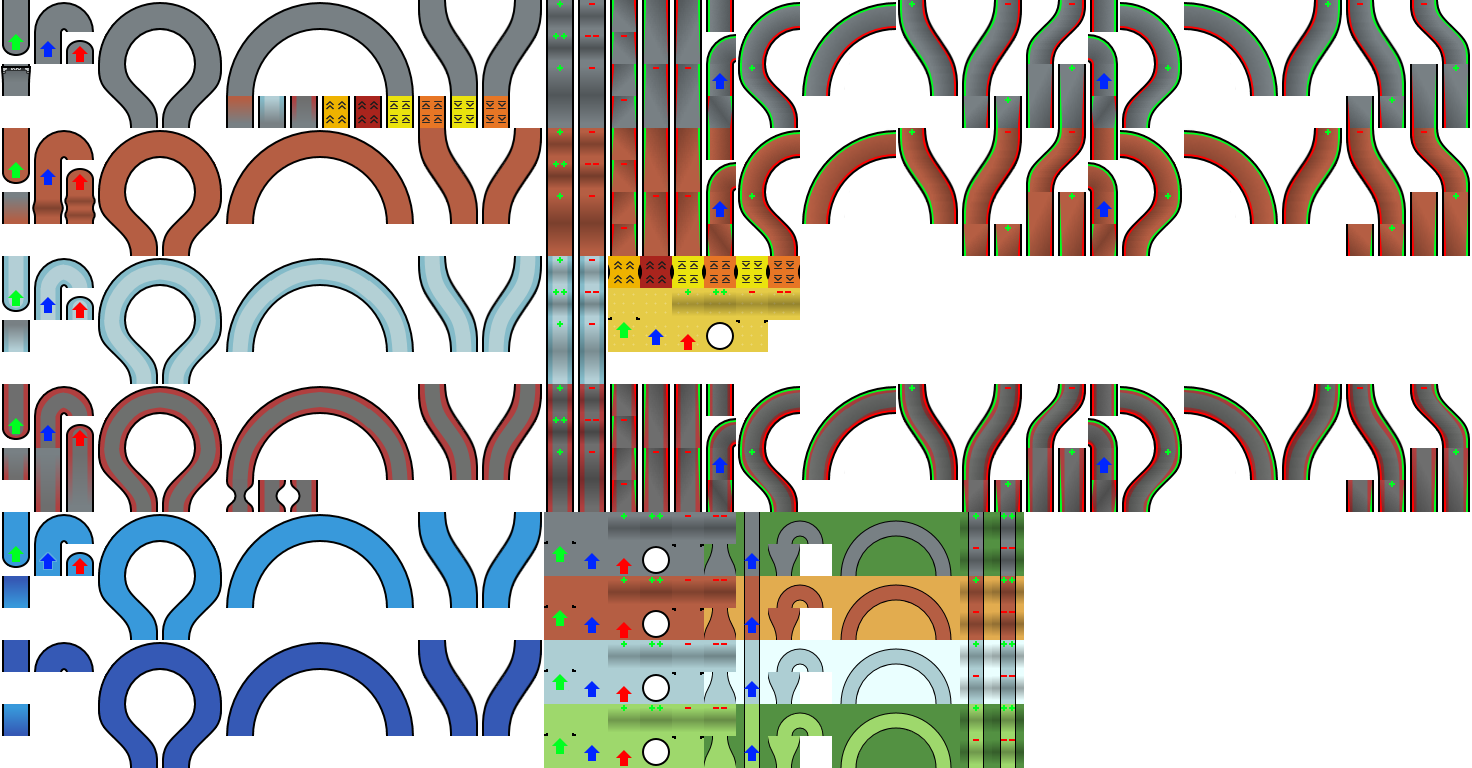
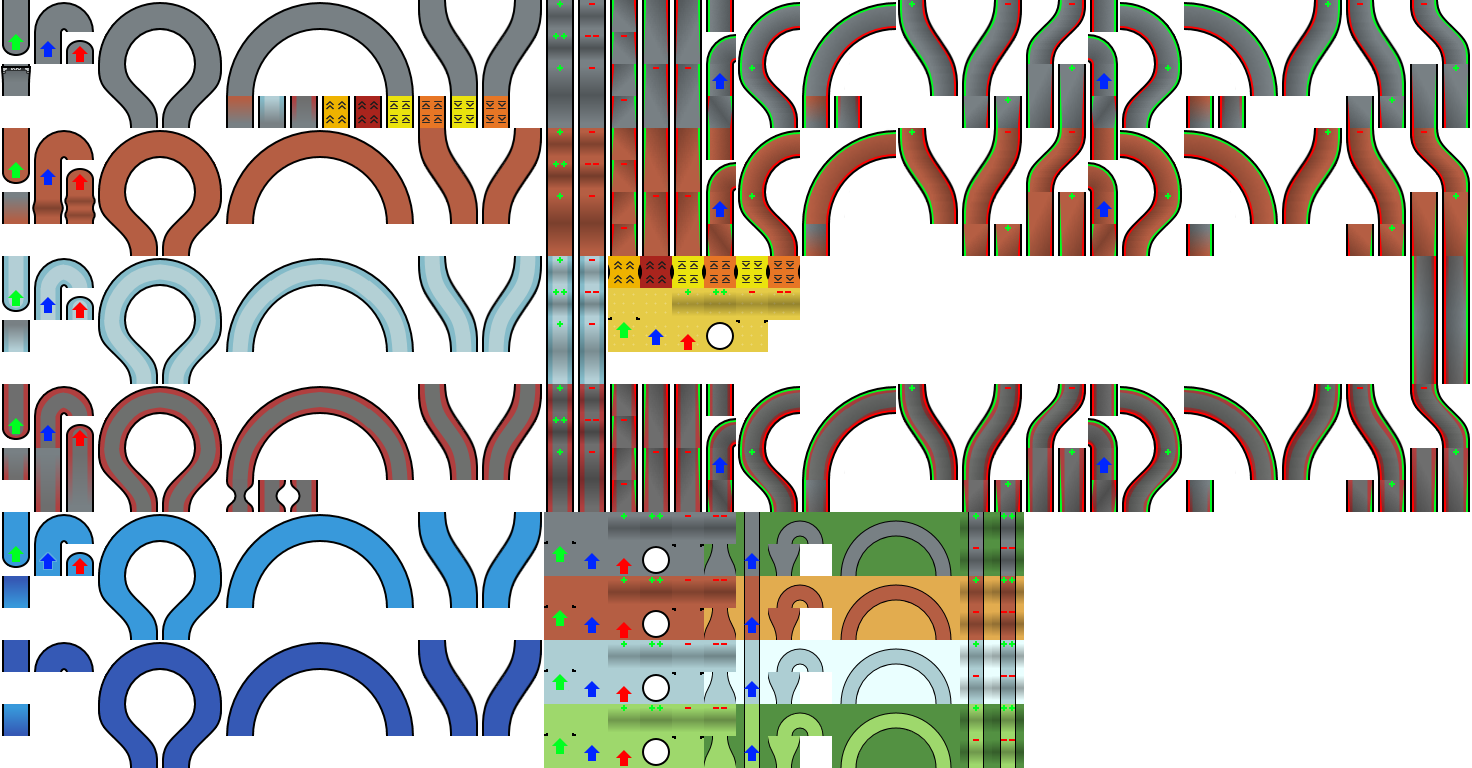
Added banked transitions for other materials

diff --git a/piecetypes.js b/piecetypes.js
@@ -1081,6 +1081,39 @@ let gPieceTypes =
 			collisionExtents: new Vector3D(0.5, 0.5, 1),
 			transitionTo: { material: "roadBankLeft" },
 		},
+		toDirtBankRight:
+		{
+			tags: [ "straight", "transition" ],
+			imageOffset: new Vector2D(800, 96),
+			imageDimensions: new Vector2D(32, 32),
+			exitOffset: new Vector3D(0, -1, 0),
+			exitAngle: 0,
+			collisionOffset: new Vector3D(0, 0, 1),
+			collisionExtents: new Vector3D(0.5, 0.5, 1),
+			transitionTo: { material: "dirtBankRight" },
+		},
+		toSausageBankRight:
+		{
+			tags: [ "straight", "transition" ],
+			imageOffset: new Vector2D(832, 96),
+			imageDimensions: new Vector2D(32, 32),
+			exitOffset: new Vector3D(0, -1, 0),
+			exitAngle: 0,
+			collisionOffset: new Vector3D(0, 0, 1),
+			collisionExtents: new Vector3D(0.5, 0.5, 1),
+			transitionTo: { material: "sausageBankRight" },
+		},
+		toSausageBankRightLong:
+		{
+			tags: [ "straight", "transition" ],
+			imageOffset: new Vector2D(1408, 256),
+			imageDimensions: new Vector2D(32, 64),
+			exitOffset: new Vector3D(0, -2, 0),
+			exitAngle: 0,
+			collisionOffset: new Vector3D(0, -0.5, 1),
+			collisionExtents: new Vector3D(0.5, 1, 1),
+			transitionTo: { material: "sausageBankRight" },
+		},
 	},
 	roadBankLeft:
 	{
@@ -1093,6 +1126,161 @@ let gPieceTypes =
 			exitAngle: 0,
 			collisionOffset: new Vector3D(0, 0, 1),
 			collisionExtents: new Vector3D(0.5, 0.5, 1),
+			transitionTo: { material: "roadBankRight" },
+		},
+		toDirtBankLeft:
+		{
+			tags: [ "straight", "transition" ],
+			imageOffset: new Vector2D(1184, 96),
+			imageDimensions: new Vector2D(32, 32),
+			exitOffset: new Vector3D(0, -1, 0),
+			exitAngle: 0,
+			collisionOffset: new Vector3D(0, 0, 1),
+			collisionExtents: new Vector3D(0.5, 0.5, 1),
+			transitionTo: { material: "dirtBankLeft" },
+		},
+		toSausageBankLeft:
+		{
+			tags: [ "straight", "transition" ],
+			imageOffset: new Vector2D(1216, 96),
+			imageDimensions: new Vector2D(32, 32),
+			exitOffset: new Vector3D(0, -1, 0),
+			exitAngle: 0,
+			collisionOffset: new Vector3D(0, 0, 1),
+			collisionExtents: new Vector3D(0.5, 0.5, 1),
+			transitionTo: { material: "sausageBankLeft" },
+		},
+		toSausageBankLeftLong:
+		{
+			tags: [ "straight", "transition" ],
+			imageOffset: new Vector2D(1440, 256),
+			imageDimensions: new Vector2D(32, 64),
+			exitOffset: new Vector3D(0, -2, 0),
+			exitAngle: 0,
+			collisionOffset: new Vector3D(0, -0.5, 1),
+			collisionExtents: new Vector3D(0.5, 1, 1),
+			transitionTo: { material: "sausageBankLeft" },
+		},
+	},
+	dirtBankRight:
+	{
+		toBankLeft:
+		{
+			tags: [ "straight", "transition" ],
+			imageOffset: new Vector2D(704, 224),
+			imageDimensions: new Vector2D(32, 32),
+			exitOffset: new Vector3D(0, -1, 0),
+			exitAngle: 0,
+			collisionOffset: new Vector3D(0, 0, 1),
+			collisionExtents: new Vector3D(0.5, 0.5, 1),
+			transitionTo: { material: "dirtBankLeft" },
+		},
+		toRoadBankRight:
+		{
+			tags: [ "straight", "transition" ],
+			imageOffset: new Vector2D(800, 224),
+			imageDimensions: new Vector2D(32, 32),
+			exitOffset: new Vector3D(0, -1, 0),
+			exitAngle: 0,
+			collisionOffset: new Vector3D(0, 0, 1),
+			collisionExtents: new Vector3D(0.5, 0.5, 1),
+			transitionTo: { material: "roadBankRight" },
+		},
+	},
+	dirtBankLeft:
+	{
+		toBankRight:
+		{
+			tags: [ "straight", "transition" ],
+			imageOffset: new Vector2D(1088, 224),
+			imageDimensions: new Vector2D(32, 32),
+			exitOffset: new Vector3D(0, -1, 0),
+			exitAngle: 0,
+			collisionOffset: new Vector3D(0, 0, 1),
+			collisionExtents: new Vector3D(0.5, 0.5, 1),
+			transitionTo: { material: "dirtBankRight" },
+		},
+		toRoadBankLeft:
+		{
+			tags: [ "straight", "transition" ],
+			imageOffset: new Vector2D(1184, 224),
+			imageDimensions: new Vector2D(32, 32),
+			exitOffset: new Vector3D(0, -1, 0),
+			exitAngle: 0,
+			collisionOffset: new Vector3D(0, 0, 1),
+			collisionExtents: new Vector3D(0.5, 0.5, 1),
+			transitionTo: { material: "roadBankLeft" },
+		},
+	},
+	sausageBankRight:
+	{
+		toBankLeft:
+		{
+			tags: [ "straight", "transition" ],
+			imageOffset: new Vector2D(704, 480),
+			imageDimensions: new Vector2D(32, 32),
+			exitOffset: new Vector3D(0, -1, 0),
+			exitAngle: 0,
+			collisionOffset: new Vector3D(0, 0, 1),
+			collisionExtents: new Vector3D(0.5, 0.5, 1),
+			transitionTo: { material: "sausageBankLeft" },
+		},
+		toRoadBankRight:
+		{
+			tags: [ "straight", "transition" ],
+			imageOffset: new Vector2D(800, 480),
+			imageDimensions: new Vector2D(32, 32),
+			exitOffset: new Vector3D(0, -1, 0),
+			exitAngle: 0,
+			collisionOffset: new Vector3D(0, 0, 1),
+			collisionExtents: new Vector3D(0.5, 0.5, 1),
+			transitionTo: { material: "roadBankRight" },
+		},
+		toRoadBankRightLong:
+		{
+			tags: [ "straight", "transition" ],
+			imageOffset: new Vector2D(1408, 320),
+			imageDimensions: new Vector2D(32, 64),
+			exitOffset: new Vector3D(0, -2, 0),
+			exitAngle: 0,
+			collisionOffset: new Vector3D(0, -0.5, 1),
+			collisionExtents: new Vector3D(0.5, 1, 1),
+			transitionTo: { material: "roadBankRight" },
+		},
+	},
+	sausageBankLeft:
+	{
+		toBankRight:
+		{
+			tags: [ "straight", "transition" ],
+			imageOffset: new Vector2D(1088, 480),
+			imageDimensions: new Vector2D(32, 32),
+			exitOffset: new Vector3D(0, -1, 0),
+			exitAngle: 0,
+			collisionOffset: new Vector3D(0, 0, 1),
+			collisionExtents: new Vector3D(0.5, 0.5, 1),
+			transitionTo: { material: "sausageBankRight" },
+		},
+		toRoadBankLeft:
+		{
+			tags: [ "straight", "transition" ],
+			imageOffset: new Vector2D(1184, 480),
+			imageDimensions: new Vector2D(32, 32),
+			exitOffset: new Vector3D(0, -1, 0),
+			exitAngle: 0,
+			collisionOffset: new Vector3D(0, 0, 1),
+			collisionExtents: new Vector3D(0.5, 0.5, 1),
+			transitionTo: { material: "roadBankLeft" },
+		},
+		toRoadBankLeftLong:
+		{
+			tags: [ "straight", "transition" ],
+			imageOffset: new Vector2D(1440, 320),
+			imageDimensions: new Vector2D(32, 64),
+			exitOffset: new Vector3D(0, -2, 0),
+			exitAngle: 0,
+			collisionOffset: new Vector3D(0, -0.5, 1),
+			collisionExtents: new Vector3D(0.5, 1, 1),
 			transitionTo: { material: "roadBankRight" },
 		},
 	},
